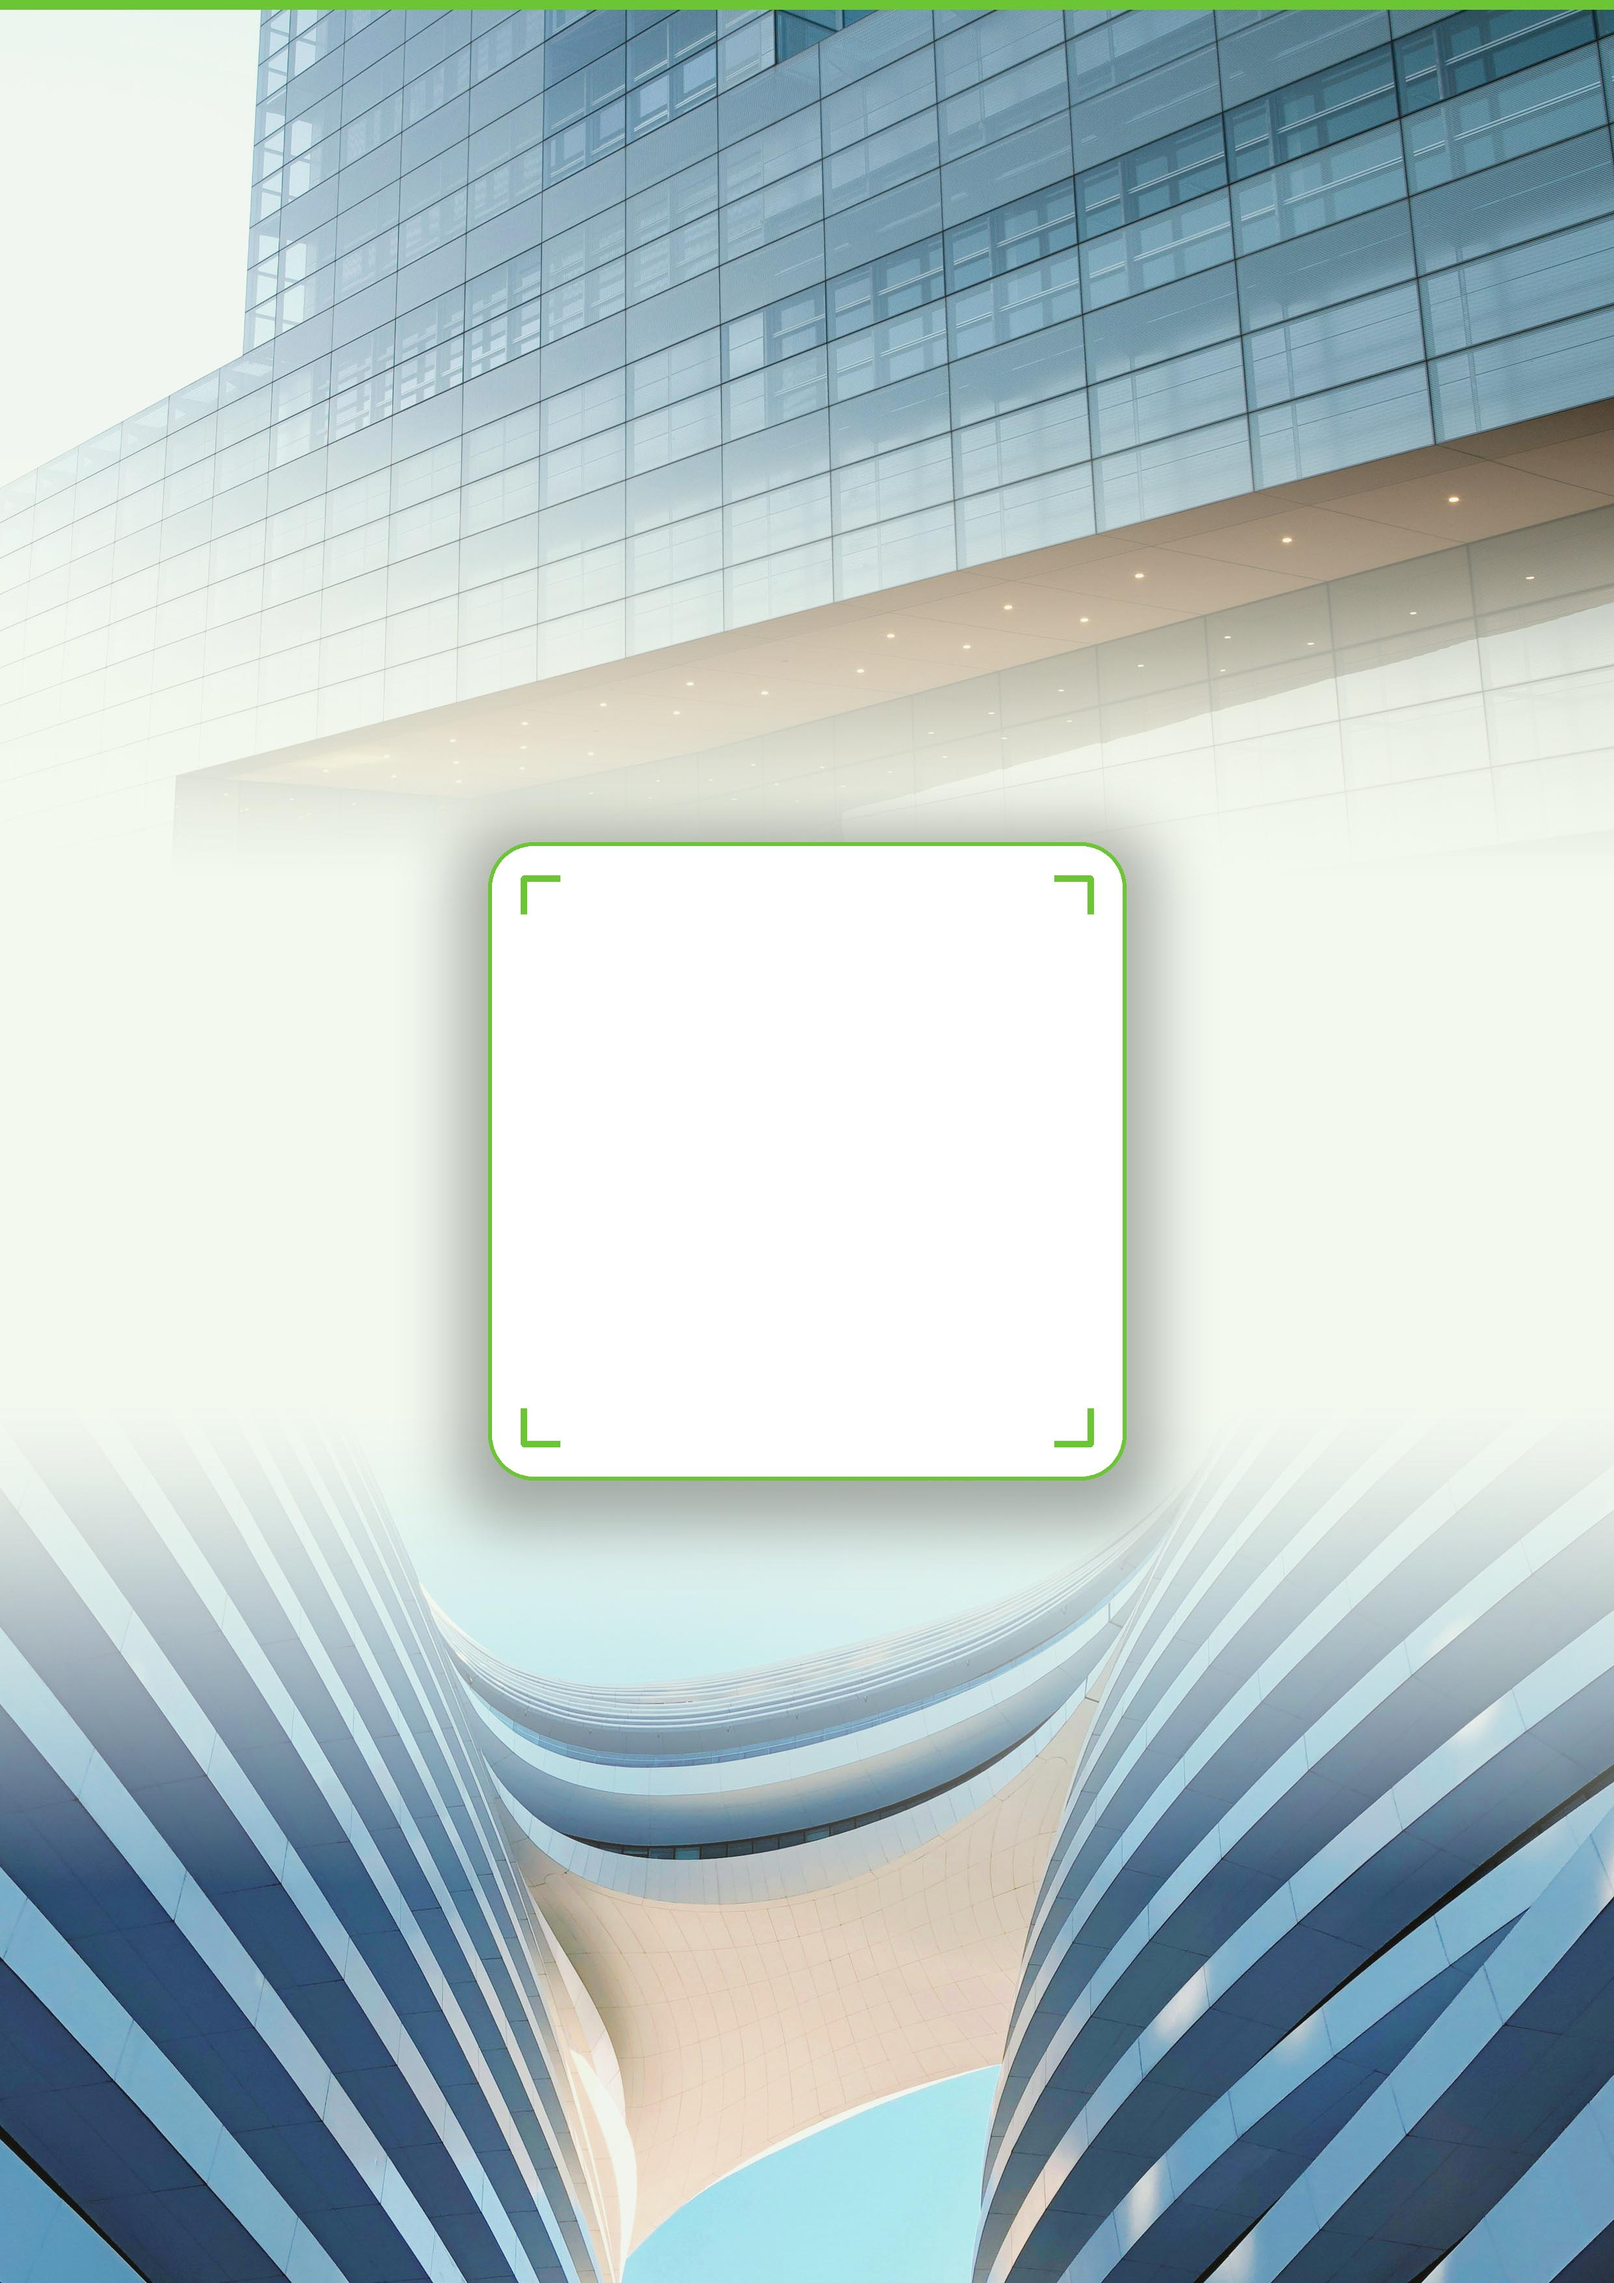
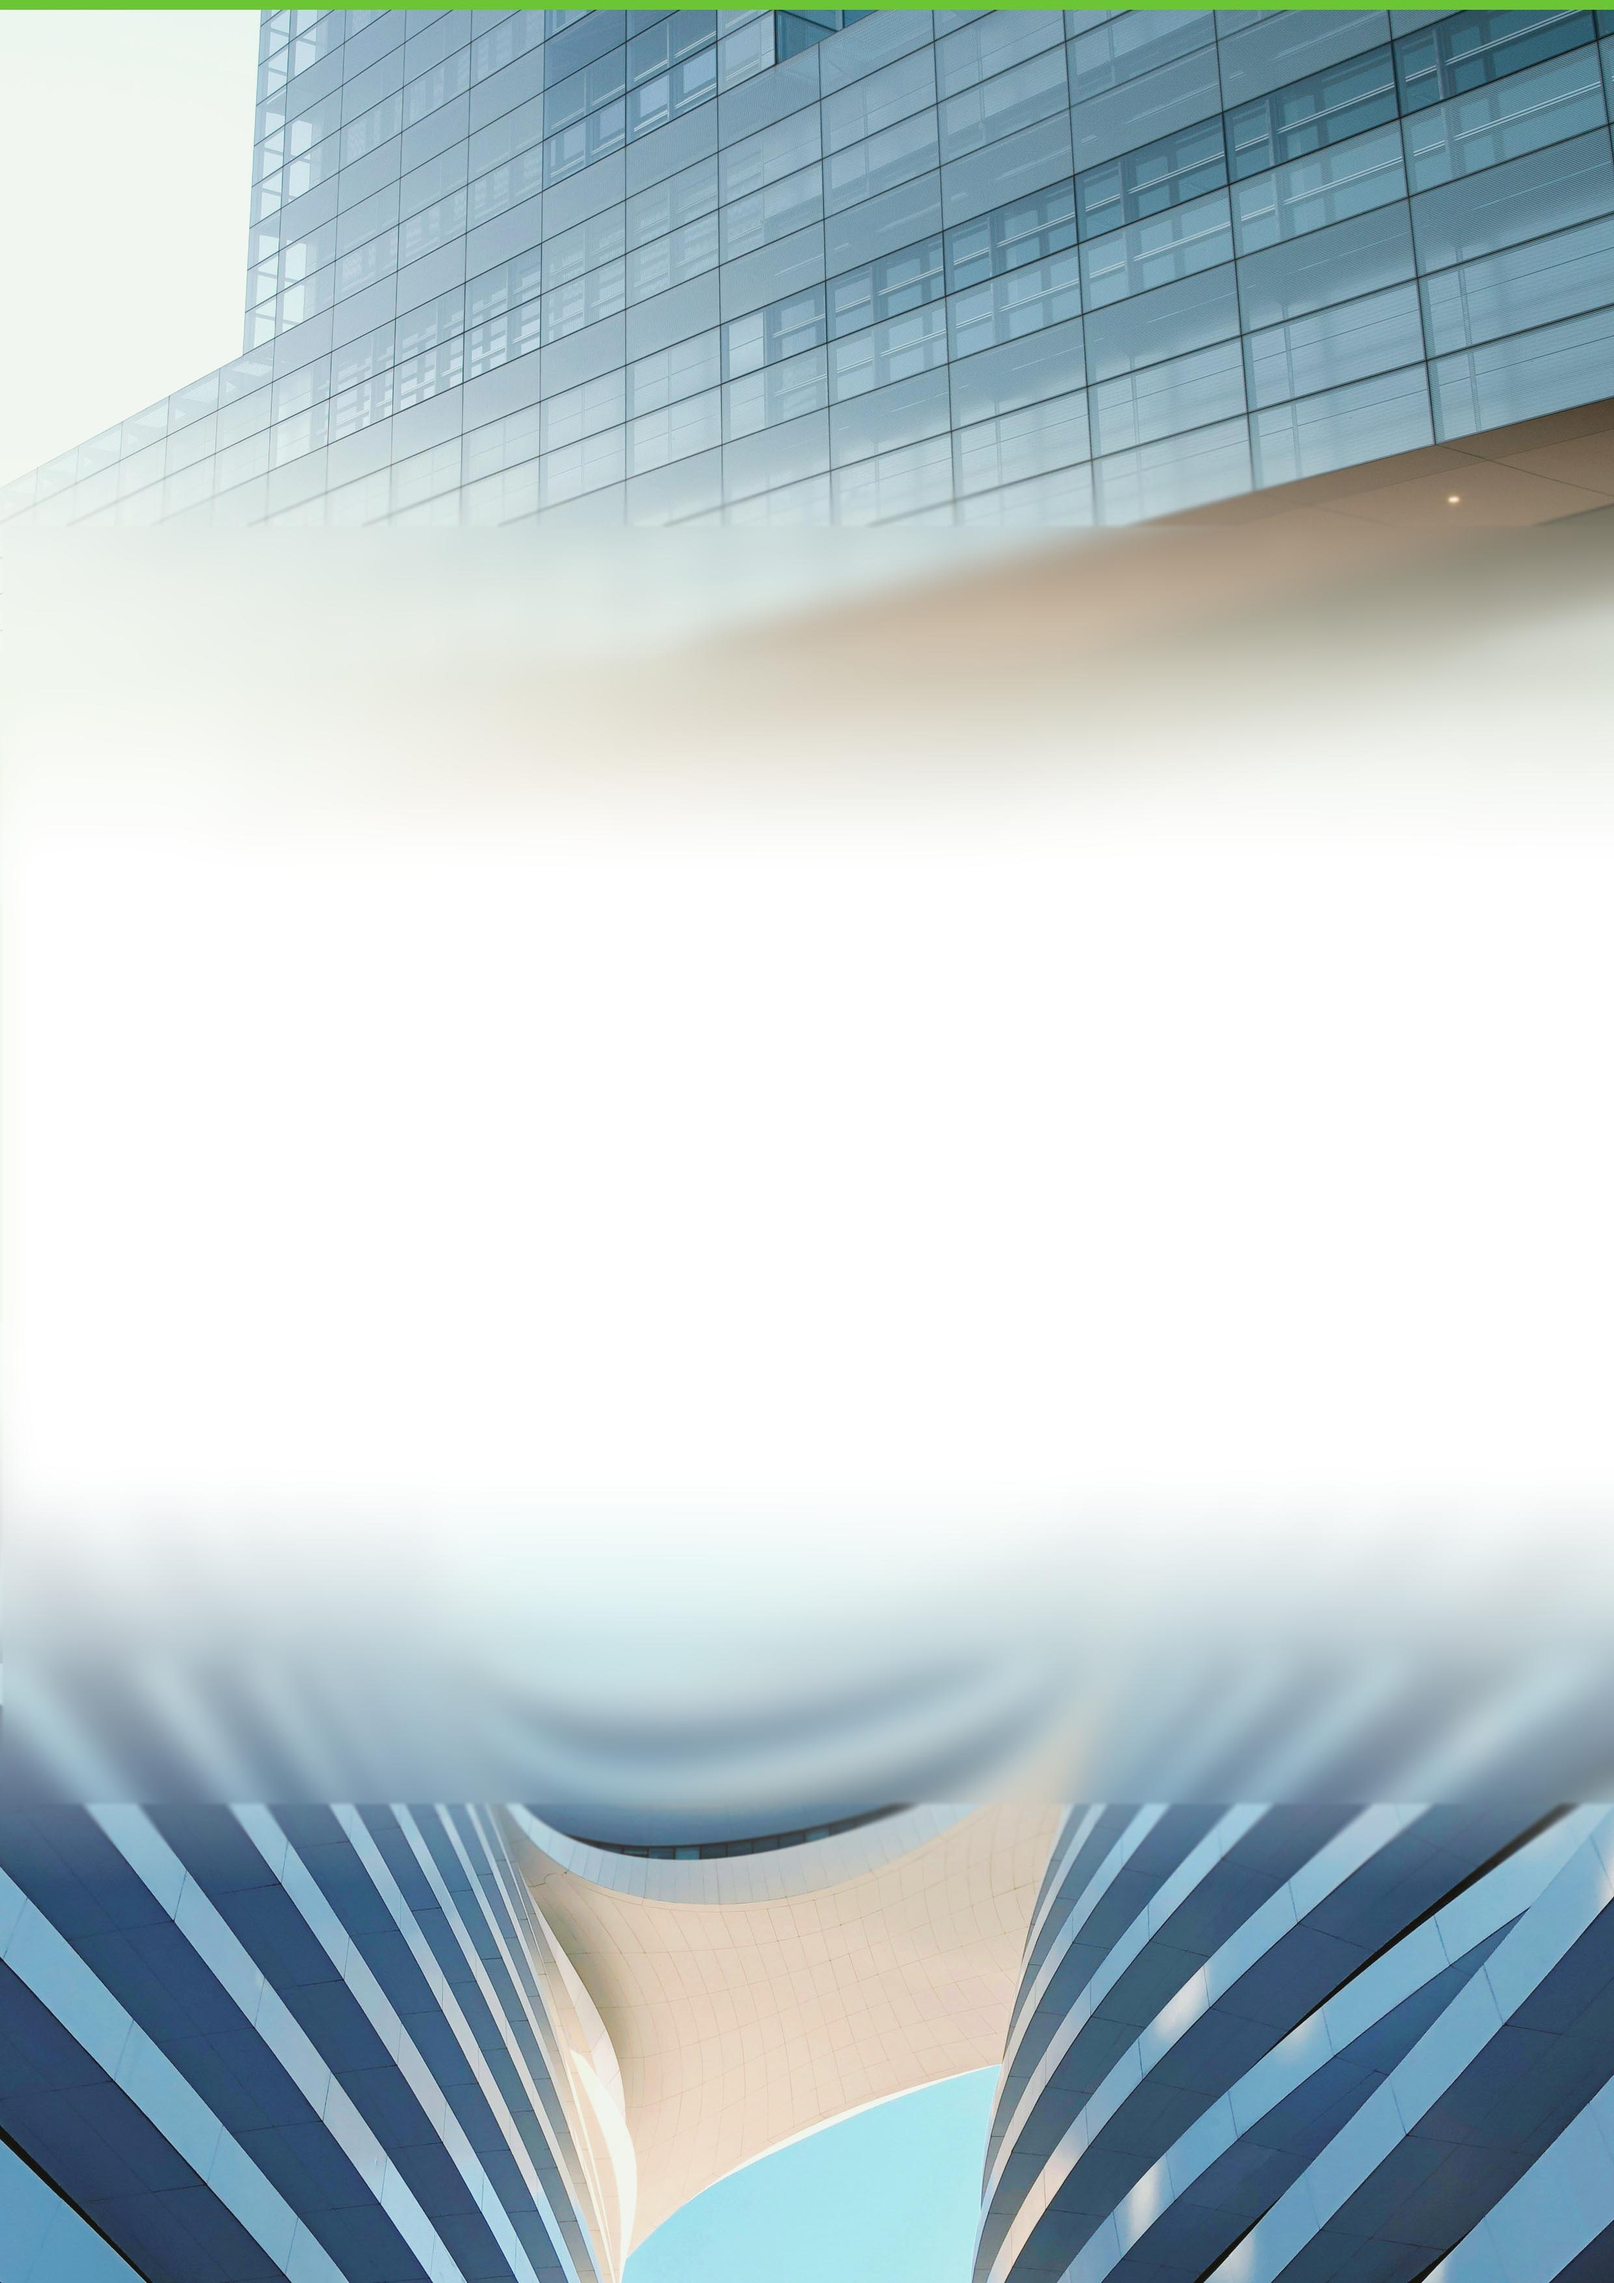
QR-achtergronden: back_01, back_05 en back_10 bijgewerkt, back_06 weg.
De instellingentest wijst naar back_05, dat bestand bestaat nog.

diff --git a/tests/Feature/Team/UpdateTenantQrPrintablePageSettingsTest.php b/tests/Feature/Team/UpdateTenantQrPrintablePageSettingsTest.php
@@ -137,7 +137,7 @@ it('persists a stock preset via saveQrBrandingSettings in settings', function ()
 
     $tenant = Tenant::factory()->create(['trial_ends_at' => now()->addDays(5)]);
     $employee = User::factory()->employee()->create(['tenant_id' => $tenant->id]);
-    $presetKey = QrPrintablePageStockBackgroundCatalog::PRESET_PREFIX.'back_06.jpg';
+    $presetKey = QrPrintablePageStockBackgroundCatalog::PRESET_PREFIX.'back_05.jpg';
 
     Livewire::actingAs($employee)
         ->test(Settings::class)
